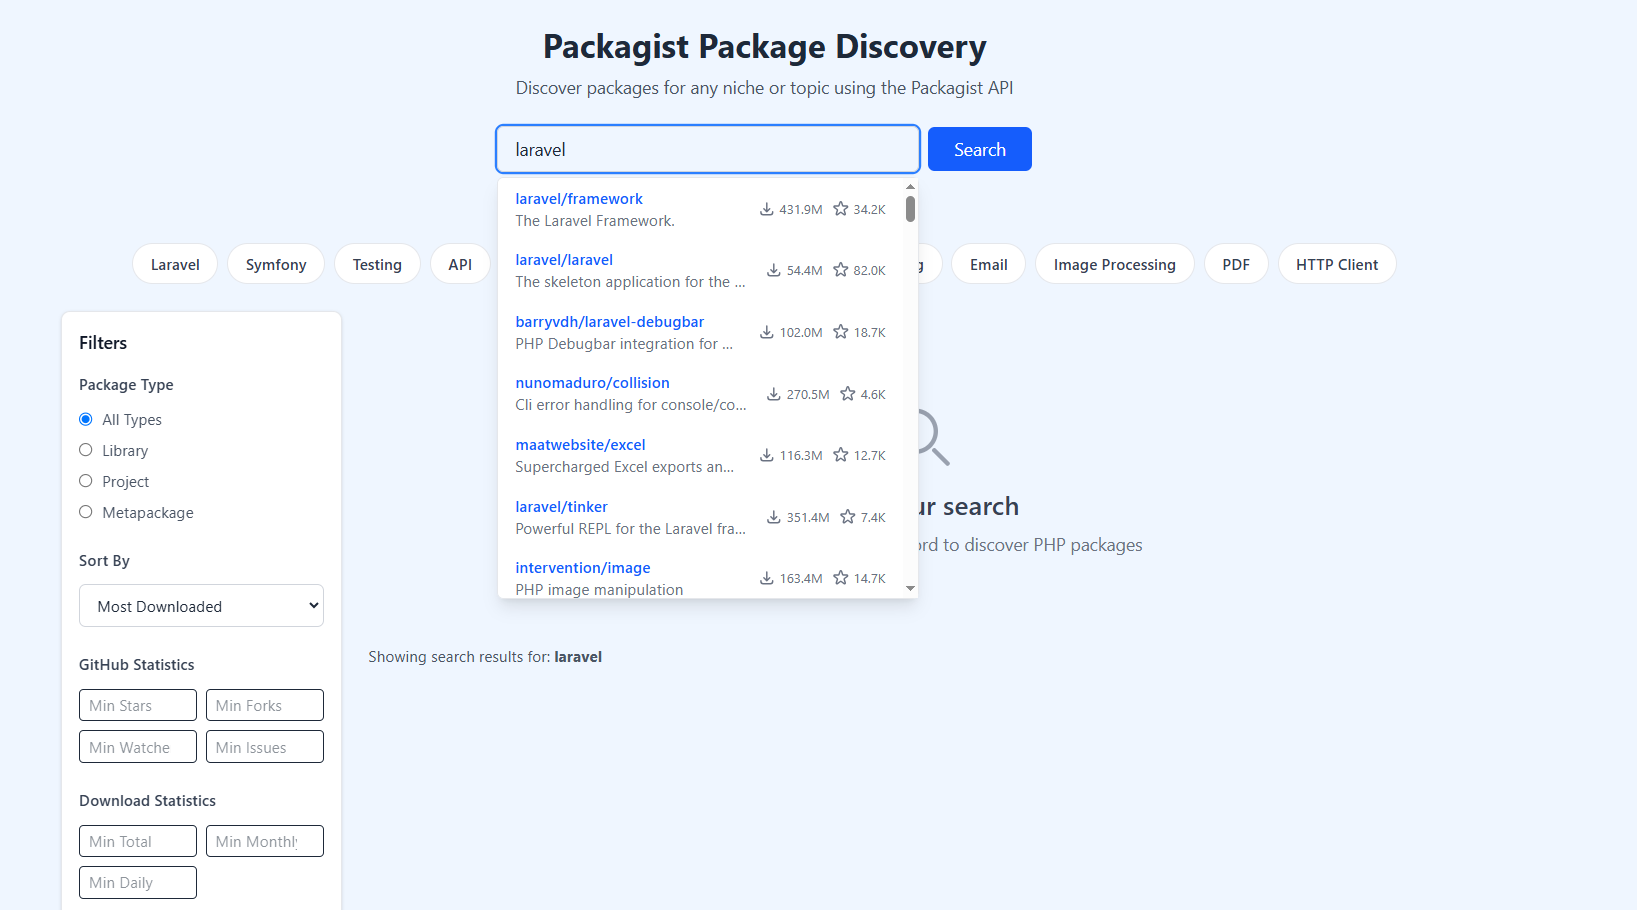
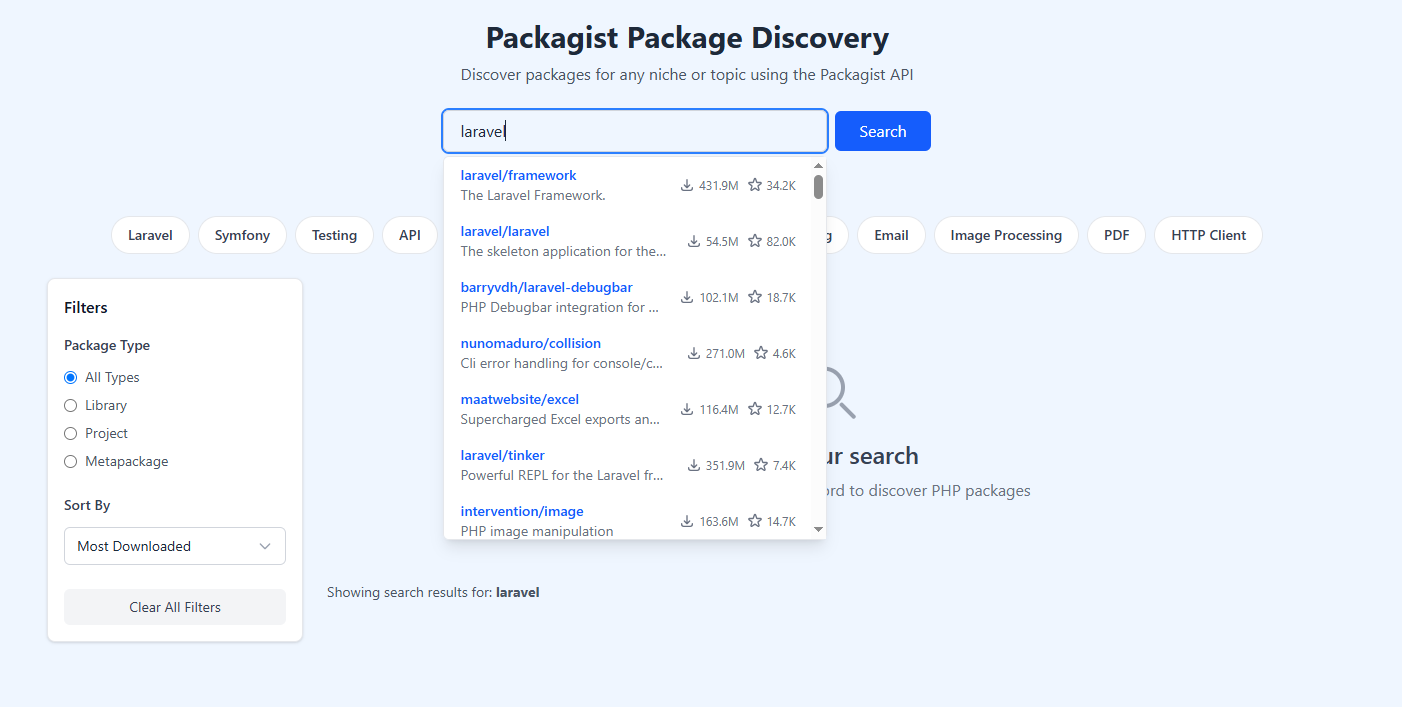
images updated, filters and sort by options updated

diff --git a/resources/css/app.css b/resources/css/app.css
@@ -9,3 +9,19 @@
     --font-sans: 'Instrument Sans', ui-sans-serif, system-ui, sans-serif, 'Apple Color Emoji', 'Segoe UI Emoji',
         'Segoe UI Symbol', 'Noto Color Emoji';
 }
+
+.custom-scrollbar {
+  scrollbar-width: thin;
+  scrollbar-color: #3b82f6 #f1f5f9;
+}
+.custom-scrollbar::-webkit-scrollbar {
+  width: 8px;
+  background: #f1f5f9;
+}
+.custom-scrollbar::-webkit-scrollbar-thumb {
+  background: #3b82f6;
+  border-radius: 4px;
+}
+.custom-scrollbar::-webkit-scrollbar-thumb:hover {
+  background: #2563eb;
+}

diff --git a/resources/views/home.blade.php b/resources/views/home.blade.php
@@ -114,43 +114,20 @@
             </div>
 
             <!-- Sort Options -->
-            <div class="mb-6">
+            <div class="mb-6" x-init="updateSortHighlight()">
               <h4 class="text-sm font-medium text-gray-700 mb-3">Sort By</h4>
-              <select x-model="sortBy" @change="applyFilters()" class="w-full px-3 py-2 border border-gray-300 rounded-md text-sm">
-                <option value="downloads">Most Downloaded</option>
-                <option value="favers">Most Favorited</option>
-                <option value="name">Name A-Z</option>
-                <option value="updated">Recently Updated</option>
-              </select>
-            </div>
-
-            <!-- GitHub Statistics Filters -->
-            <div class="mb-6">
-              <h4 class="text-sm font-medium text-gray-700 mb-3">GitHub Statistics</h4>
-              <div class="grid grid-cols-2 gap-2 mb-2">
-                <input type="number" min="0" placeholder="Min Stars" x-model.number="githubStarsMin" @change="applyFilters()" class="px-2 py-1 border rounded text-sm" />
-                <input type="number" min="0" placeholder="Min Forks" x-model.number="githubForksMin" @change="applyFilters()" class="px-2 py-1 border rounded text-sm" />
-                <input type="number" min="0" placeholder="Min Watchers" x-model.number="githubWatchersMin" @change="applyFilters()" class="px-2 py-1 border rounded text-sm" />
-                <input type="number" min="0" placeholder="Min Issues" x-model.number="githubIssuesMin" @change="applyFilters()" class="px-2 py-1 border rounded text-sm" />
-              </div>
-            </div>
-
-            <!-- Download Statistics Filters -->
-            <div class="mb-6">
-              <h4 class="text-sm font-medium text-gray-700 mb-3">Download Statistics</h4>
-              <div class="grid grid-cols-2 gap-2 mb-2">
-                <input type="number" min="0" placeholder="Min Total" x-model.number="downloadsTotalMin" @change="applyFilters()" class="px-2 py-1 border rounded text-sm" />
-                <input type="number" min="0" placeholder="Min Monthly" x-model.number="downloadsMonthlyMin" @change="applyFilters()" class="px-2 py-1 border rounded text-sm" />
-                <input type="number" min="0" placeholder="Min Daily" x-model.number="downloadsDailyMin" @change="applyFilters()" class="px-2 py-1 border rounded text-sm" />
-              </div>
-            </div>
-
-            <!-- Package Statistics Filters -->
-            <div class="mb-6">
-              <h4 class="text-sm font-medium text-gray-700 mb-3">Package Statistics</h4>
-              <div class="grid grid-cols-2 gap-2 mb-2">
-                <input type="number" min="0" placeholder="Min Dependents" x-model.number="dependentsMin" @change="applyFilters()" class="px-2 py-1 border rounded text-sm" />
-                <input type="number" min="0" placeholder="Min Suggesters" x-model.number="suggestersMin" @change="applyFilters()" class="px-2 py-1 border rounded text-sm" />
+              <div class="relative">
+                <button type="button" @click="openSortDropdown = !openSortDropdown" @keydown.arrow-down.prevent="highlightedSort = (highlightedSort + 1) % sortOptions.length" @keydown.arrow-up.prevent="highlightedSort = (highlightedSort - 1 + sortOptions.length) % sortOptions.length" @keydown.enter.prevent="selectSortOption(highlightedSort)" class="w-full px-3 py-2 border border-gray-300 rounded-md text-sm bg-white flex justify-between items-center focus:outline-none focus:ring-2 focus:ring-blue-500" :aria-expanded="openSortDropdown">
+                  <span x-text="labelForValue(sortBy)"></span>
+                  <svg class="w-4 h-4 ml-2 text-gray-400" fill="none" stroke="currentColor" viewBox="0 0 24 24"><path stroke-linecap="round" stroke-linejoin="round" stroke-width="2" d="M19 9l-7 7-7-7"/></svg>
+                </button>
+                <div x-show="openSortDropdown" @click.away="openSortDropdown = false" class="absolute z-20 mt-1 w-full bg-white border border-gray-200 rounded-md shadow-lg max-h-56 overflow-y-auto custom-scrollbar" style="min-width: 12rem;" x-transition>
+                  <template x-for="(option, idx) in sortOptions" :key="option.value">
+                    <div @click="selectSortOption(idx)" @mouseenter="highlightedSort = idx" :class="{'bg-blue-50 text-blue-700': highlightedSort === idx, 'text-gray-700': highlightedSort !== idx, 'font-semibold': sortBy === option.value}" class="px-4 py-2 cursor-pointer select-none hover:bg-blue-100 pointer-events-auto">
+                      <span x-text="option.label"></span>
+                    </div>
+                  </template>
+                </div>
               </div>
             </div>
 
@@ -289,24 +266,6 @@
             </div>
 
             <!-- Sort Options Skeleton -->
-            <div class="mb-6">
-              <div class="h-4 bg-gray-200 rounded w-16 mb-3 animate-pulse"></div>
-              <div class="h-8 bg-gray-200 rounded w-full animate-pulse"></div>
-            </div>
-
-            <!-- GitHub Statistics Filters Skeleton -->
-            <div class="mb-6">
-              <div class="h-4 bg-gray-200 rounded w-16 mb-3 animate-pulse"></div>
-              <div class="h-8 bg-gray-200 rounded w-full animate-pulse"></div>
-            </div>
-
-            <!-- Download Statistics Filters Skeleton -->
-            <div class="mb-6">
-              <div class="h-4 bg-gray-200 rounded w-16 mb-3 animate-pulse"></div>
-              <div class="h-8 bg-gray-200 rounded w-full animate-pulse"></div>
-            </div>
-
-            <!-- Package Statistics Filters Skeleton -->
             <div class="mb-6">
               <div class="h-4 bg-gray-200 rounded w-16 mb-3 animate-pulse"></div>
               <div class="h-8 bg-gray-200 rounded w-full animate-pulse"></div>
@@ -650,20 +609,30 @@
         selectedSuggestionIndex: -1,
         debounceTimer: null,
         // New filter properties
-        githubStarsMin: null,
-        githubForksMin: null,
-        githubWatchersMin: null,
-        githubIssuesMin: null,
-        downloadsTotalMin: null,
-        downloadsMonthlyMin: null,
-        downloadsDailyMin: null,
-        dependentsMin: null,
-        suggestersMin: null,
-        // Add to Alpine.js state
         originalTotal: null,
         filteredCount: null,
         filtersActive: false,
         showAllVersions: false,
+        sortOptions: [
+          { value: 'downloads', label: 'Most Downloaded' },
+          { value: 'downloads_asc', label: 'Least Downloaded' }
+        ],
+        labelForValue(val) {
+          const found = this.sortOptions.find(o => o.value === val);
+          return found ? found.label : '';
+        },
+        openSortDropdown: false,
+        highlightedSort: 0,
+        selectSortOption(idx) {
+          this.sortBy = this.sortOptions[idx].value;
+          this.highlightedSort = idx;
+          this.openSortDropdown = false;
+          this.applyFilters();
+        },
+        updateSortHighlight() {
+          const idx = this.sortOptions.findIndex(o => o.value === this.sortBy);
+          this.highlightedSort = idx !== -1 ? idx : 0;
+        },
 
         // New methods for autocomplete
         async searchSuggestions() {
@@ -722,6 +691,9 @@
           this.fetchPackages();
         },
         applyFilters() {
+          console.log('[Alpine] applyFilters called. sortBy:', this.sortBy, 'filters:', {
+            packageType: this.packageType
+          });
           this.page = 1;
           this.hasSearched = true;
           this.fetchPackages();
@@ -737,16 +709,6 @@
           this.hasNext = false;
           this.loading = false;
           this.hasSearched = false;
-          // Reset new filters
-          this.githubStarsMin = null;
-          this.githubForksMin = null;
-          this.githubWatchersMin = null;
-          this.githubIssuesMin = null;
-          this.downloadsTotalMin = null;
-          this.downloadsMonthlyMin = null;
-          this.downloadsDailyMin = null;
-          this.dependentsMin = null;
-          this.suggestersMin = null;
         },
         prevPage() {
           if (this.page > 1) {
@@ -792,6 +754,7 @@
           }
         },
         fetchPackages() {
+          console.log('[Alpine] fetchPackages called. sortBy:', this.sortBy, 'page:', this.page);
           // Handle blank search: If query/activeTag are empty, revert to initial state
           if (!this.query && !this.activeTag) {
             this.packages = [];
@@ -808,16 +771,6 @@
           else if (this.query) params += `&q=${encodeURIComponent(this.query)}`;
           if (this.packageType) params += `&type=${encodeURIComponent(this.packageType)}`;
           if (this.sortBy) params += `&sort=${encodeURIComponent(this.sortBy)}`;
-          // Add new filters
-          if (this.githubStarsMin !== null && this.githubStarsMin !== '') params += `&github_stars_min=${this.githubStarsMin}`;
-          if (this.githubForksMin !== null && this.githubForksMin !== '') params += `&github_forks_min=${this.githubForksMin}`;
-          if (this.githubWatchersMin !== null && this.githubWatchersMin !== '') params += `&github_watchers_min=${this.githubWatchersMin}`;
-          if (this.githubIssuesMin !== null && this.githubIssuesMin !== '') params += `&github_issues_min=${this.githubIssuesMin}`;
-          if (this.downloadsTotalMin !== null && this.downloadsTotalMin !== '') params += `&downloads_total_min=${this.downloadsTotalMin}`;
-          if (this.downloadsMonthlyMin !== null && this.downloadsMonthlyMin !== '') params += `&downloads_monthly_min=${this.downloadsMonthlyMin}`;
-          if (this.downloadsDailyMin !== null && this.downloadsDailyMin !== '') params += `&downloads_daily_min=${this.downloadsDailyMin}`;
-          if (this.dependentsMin !== null && this.dependentsMin !== '') params += `&dependents_min=${this.dependentsMin}`;
-          if (this.suggestersMin !== null && this.suggestersMin !== '') params += `&suggesters_min=${this.suggestersMin}`;
 
           const url = `/api/packagist/search${params}`;
           
@@ -856,7 +809,8 @@
           });
         },
         init() {
-          // Do not fetchPackages() on load!
+          this.updateSortHighlight();
+          this.$watch('sortBy', () => this.updateSortHighlight());
         }
       }
     }

diff --git a/app/Http/Controllers/PackagistController.php b/app/Http/Controllers/PackagistController.php
@@ -40,28 +40,74 @@ class PackagistController extends Controller
                 'User-Agent' => $this->userAgent,
             ])->get($url)->json();
 
-            // Sort the results if needed
+            // Fix: Extract downloads_monthly and downloads_daily for sorting
             if (isset($response['results']) && is_array($response['results'])) {
                 $results = collect($response['results']);
-                
+                $results = $results->map(function ($item) {
+                    if (isset($item['downloads']) && is_array($item['downloads'])) {
+                        $item['downloads_monthly'] = $item['downloads']['monthly'] ?? 0;
+                        $item['downloads_daily'] = $item['downloads']['daily'] ?? 0;
+                    } else {
+                        $item['downloads_monthly'] = 0;
+                        $item['downloads_daily'] = 0;
+                    }
+                    return $item;
+                });
                 switch ($sort) {
                     case 'downloads':
                         $results = $results->sortByDesc('downloads');
                         break;
-                    case 'favers':
-                        $results = $results->sortByDesc('favers');
+                    case 'downloads_asc':
+                        $results = $results->sortBy('downloads');
                         break;
-                    case 'name':
-                        $results = $results->sortBy('name');
+                    case 'stars':
+                        $results = $results->sortByDesc('github_stars');
                         break;
-                    case 'updated':
-                        $results = $results->sortByDesc('time');
+                    case 'stars_asc':
+                        $results = $results->sortBy('github_stars');
+                        break;
+                    case 'forks':
+                        $results = $results->sortByDesc('github_forks');
+                        break;
+                    case 'forks_asc':
+                        $results = $results->sortBy('github_forks');
+                        break;
+                    case 'watchers':
+                        $results = $results->sortByDesc('github_watchers');
+                        break;
+                    case 'watchers_asc':
+                        $results = $results->sortBy('github_watchers');
+                        break;
+                    case 'issues':
+                        $results = $results->sortByDesc('github_open_issues');
+                        break;
+                    case 'issues_asc':
+                        $results = $results->sortBy('github_open_issues');
+                        break;
+                    case 'monthly':
+                        $results = $results->sortByDesc('downloads_monthly');
+                        break;
+                    case 'monthly_asc':
+                        $results = $results->sortBy('downloads_monthly');
+                        break;
+                    case 'daily':
+                        $results = $results->sortByDesc('downloads_daily');
+                        break;
+                    case 'daily_asc':
+                        $results = $results->sortBy('downloads_daily');
+                        break;
+                    case 'suggesters':
+                        $results = $results->sortByDesc('suggesters');
+                        break;
+                    case 'suggesters_asc':
+                        $results = $results->sortBy('suggesters');
+                        break;
+                    case 'dependents':
+                        $results = $results->sortByDesc('dependents');
                         break;
                     default:
-                        // Default to downloads
                         $results = $results->sortByDesc('downloads');
                 }
-                
                 $response['results'] = $results->values()->toArray();
             }
 
@@ -112,17 +158,17 @@ class PackagistController extends Controller
                     $dependentsMin, $suggestersMin
                 ) {
                     // GitHub stats
-                    if ($githubStarsMin !== null && (!isset($pkg['github_stars']) || $pkg['github_stars'] < $githubStarsMin)) return false;
-                    if ($githubForksMin !== null && (!isset($pkg['github_forks']) || $pkg['github_forks'] < $githubForksMin)) return false;
-                    if ($githubWatchersMin !== null && (!isset($pkg['github_watchers']) || $pkg['github_watchers'] < $githubWatchersMin)) return false;
-                    if ($githubIssuesMin !== null && (!isset($pkg['github_open_issues']) || $pkg['github_open_issues'] < $githubIssuesMin)) return false;
+                    if ($githubStarsMin !== null && (!isset($pkg['github_stars']) || !is_numeric($pkg['github_stars']) || $pkg['github_stars'] < $githubStarsMin)) return false;
+                    if ($githubForksMin !== null && (!isset($pkg['github_forks']) || !is_numeric($pkg['github_forks']) || $pkg['github_forks'] < $githubForksMin)) return false;
+                    if ($githubWatchersMin !== null && (!isset($pkg['github_watchers']) || !is_numeric($pkg['github_watchers']) || $pkg['github_watchers'] < $githubWatchersMin)) return false;
+                    if ($githubIssuesMin !== null && (!isset($pkg['github_open_issues']) || !is_numeric($pkg['github_open_issues']) || $pkg['github_open_issues'] < $githubIssuesMin)) return false;
                     // Download stats
-                    if ($downloadsTotalMin !== null && isset($pkg['downloads']) && $pkg['downloads'] < $downloadsTotalMin) return false;
-                    if ($downloadsMonthlyMin !== null && isset($pkg['downloads_monthly']) && $pkg['downloads_monthly'] < $downloadsMonthlyMin) return false;
-                    if ($downloadsDailyMin !== null && isset($pkg['downloads_daily']) && $pkg['downloads_daily'] < $downloadsDailyMin) return false;
+                    if ($downloadsTotalMin !== null && (!isset($pkg['downloads']['total']) || !is_numeric($pkg['downloads']['total']) || $pkg['downloads']['total'] < $downloadsTotalMin)) return false;
+                    if ($downloadsMonthlyMin !== null && (!isset($pkg['downloads_monthly']) || !is_numeric($pkg['downloads_monthly']) || $pkg['downloads_monthly'] < $downloadsMonthlyMin)) return false;
+                    if ($downloadsDailyMin !== null && (!isset($pkg['downloads_daily']) || !is_numeric($pkg['downloads_daily']) || $pkg['downloads_daily'] < $downloadsDailyMin)) return false;
                     // Package stats
-                    if ($dependentsMin !== null && isset($pkg['dependents']) && $pkg['dependents'] < $dependentsMin) return false;
-                    if ($suggestersMin !== null && isset($pkg['suggesters']) && $pkg['suggesters'] < $suggestersMin) return false;
+                    if ($dependentsMin !== null && (!isset($pkg['dependents']) || !is_numeric($pkg['dependents']) || $pkg['dependents'] < $dependentsMin)) return false;
+                    if ($suggestersMin !== null && (!isset($pkg['suggesters']) || !is_numeric($pkg['suggesters']) || $pkg['suggesters'] < $suggestersMin)) return false;
                     return true;
                 })->values()->toArray();
                 $filteredCount = count($data['results']);
@@ -134,6 +180,36 @@ class PackagistController extends Controller
         $data['original_total'] = $originalTotal;
         $data['filtered_count'] = $filteredCount;
         $data['filters_active'] = $filtersActive;
+        $data['sort_applied'] = $sort;
+        $data['filter_fields_applied'] = array_filter([
+            $githubStarsMin !== null ? 'github_stars_min' : null,
+            $githubForksMin !== null ? 'github_forks_min' : null,
+            $githubWatchersMin !== null ? 'github_watchers_min' : null,
+            $githubIssuesMin !== null ? 'github_issues_min' : null,
+            $downloadsTotalMin !== null ? 'downloads_total_min' : null,
+            $downloadsMonthlyMin !== null ? 'downloads_monthly_min' : null,
+            $downloadsDailyMin !== null ? 'downloads_daily_min' : null,
+            $dependentsMin !== null ? 'dependents_min' : null,
+            $suggestersMin !== null ? 'suggesters_min' : null,
+        ]);
+        if ($filtersActive || $sort !== 'downloads') {
+            $data['note'] = 'Sorting and advanced filters are only applied to the current page of results due to Packagist API limitations.';
+        }
+        // Debug log
+        \Log::debug('[PackagistController] search params', [
+            'sort' => $sort,
+            'filters' => [
+                'githubStarsMin' => $githubStarsMin,
+                'githubForksMin' => $githubForksMin,
+                'githubWatchersMin' => $githubWatchersMin,
+                'githubIssuesMin' => $githubIssuesMin,
+                'downloadsTotalMin' => $downloadsTotalMin,
+                'downloadsMonthlyMin' => $downloadsMonthlyMin,
+                'downloadsDailyMin' => $downloadsDailyMin,
+                'dependentsMin' => $dependentsMin,
+                'suggestersMin' => $suggestersMin,
+            ]
+        ]);
 
         return response()->json($data);
     }
